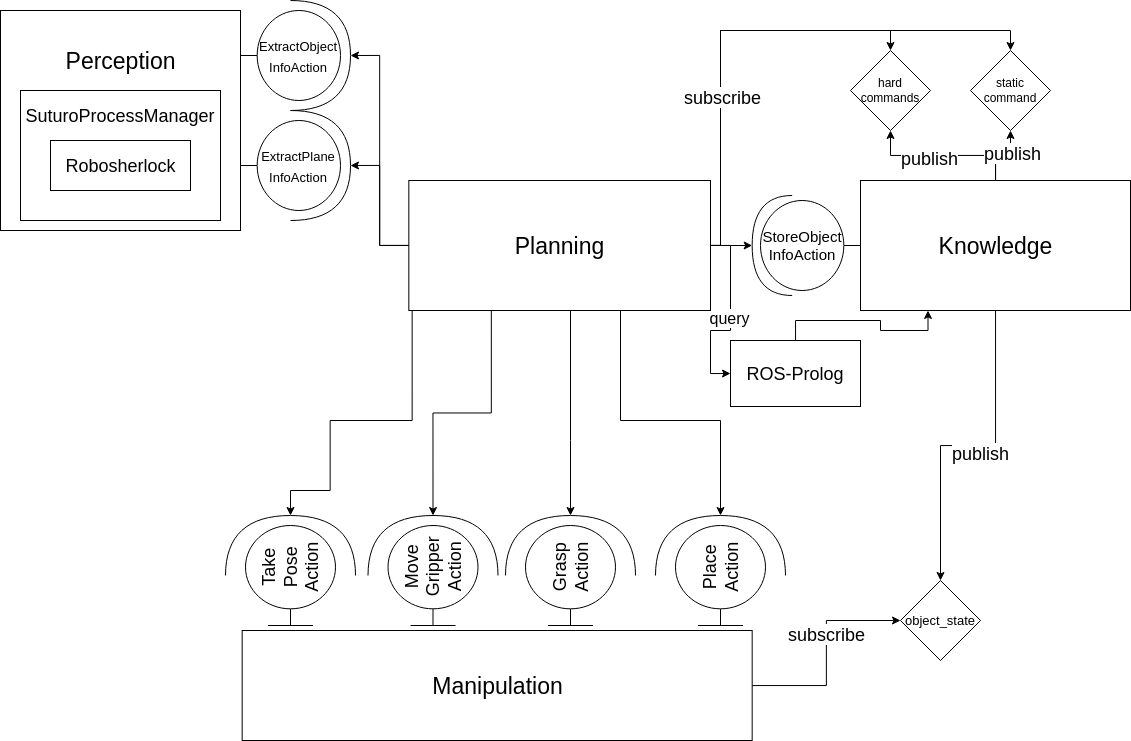
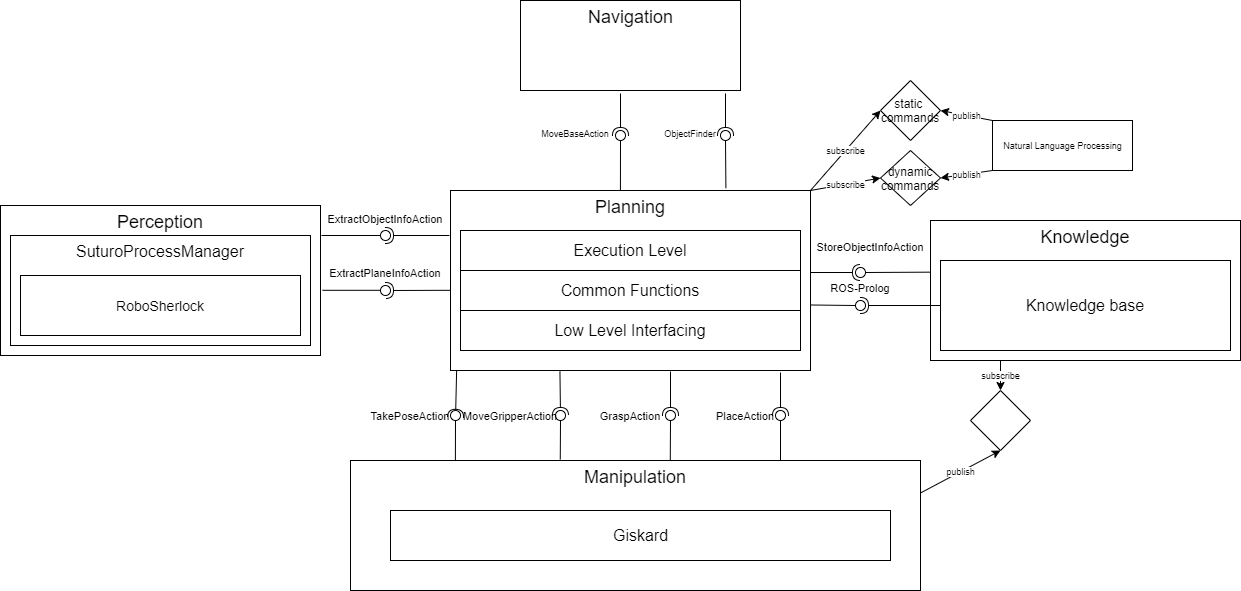
modified the architecture diagram, added a diagram for planning function doku

diff --git a/doku_whole_project/subdocuments/03_planning_method_doku.tex b/doku_whole_project/subdocuments/03_planning_method_doku.tex
@@ -16,6 +16,13 @@
 		
 		The Planning group is responsible for the integration and connection of the results of the other groups. Planning has also created a sophisticated sequence diagram that explains the process and the interaction of all groups.
 	    Furthermore, Planning was also responsible for the planning and execution of the final demo. This includes the integration of the HSR on the simulator, as well as bug fixing and adaptation of the current code.
+
+		\begin{figure}[h]
+			\centering
+			\includegraphics[width=0.85\textwidth]{pictures/diagramms/planning.png}
+			\caption{Planning architecture overview}
+			\label{planning-overview}
+		\end{figure}
 		
 		\section{Grocery}
 		\label{grocery}
